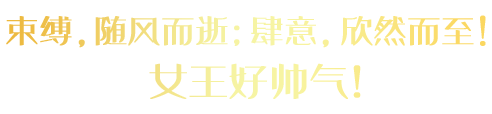
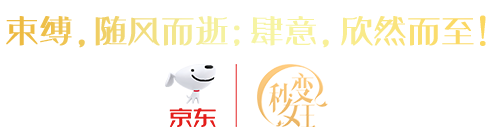
m

Changed region(s): [[0.0, 0.1053, 1.0, 0.4211], [0.3049, 0.4474, 0.7317, 0.9211]]

diff --git a/html_views/share.html b/html_views/share.html
@@ -22,7 +22,7 @@
             <img width="95%" id="face" src="public/images/qeen_face_004.jpg" />
         </div>
     </div>
-    <div class="text" style="min-height: 60px;"> <img width="50%" src="public/images/tumo.png" class="textImg1"> <img width="53%" src="public/images/nw02@2x.png" class="textImg2" style="display: none"></div>
+    <div class="text" style="min-height: 60px;"> <img width="56%" src="public/images/tumo.png" class="textImg1"> <img width="72%" src="public/images/nw02@2x.png" class="textImg2" style="display: none"></div>
     <div class="up_btn"> <a href="https://pro.m.jd.com/mall/active/42PDk3ZzddgGSk4WdK4GhFZ6E6iC/index.html"><img width="90%" src="public/images/enter_btn.png"> </a></div>
     <script type="text/javascript">
     if (document.location.hash.split('#')[1]) {

diff --git a/dev_webroot/css/common.css b/dev_webroot/css/common.css
@@ -526,10 +526,10 @@ body {
 }
 
 .baohe-des {
-    width: 68%;
+    width: 80%;
     position: absolute;
-    left: 16%;
-    bottom: 15%;
+    left: 10%;
+    bottom: 13%;
     z-index: 14;
     height: 0;
     overflow: hidden;
@@ -540,7 +540,7 @@ body {
 
 .goodsViewOn .baohe-des {
     opacity: 1;
-    height: 150px;
+    height: 170px;
 }
 
 .baohe-btn {

diff --git a/dev_webroot/public/stylesheets/style.css b/dev_webroot/public/stylesheets/style.css
@@ -39,7 +39,7 @@ a {
 }
 .img_wapper{
 	position: relative;
-		width: 80%;
+		width: 70%;
 		margin: 0 auto;
 		overflow: hidden;
 
@@ -59,7 +59,7 @@ a {
 }
 .text{
 	text-align: center;
-	margin: 8% auto
+	margin: 2% auto
 }
 .tpl {
 	width: 90%;
